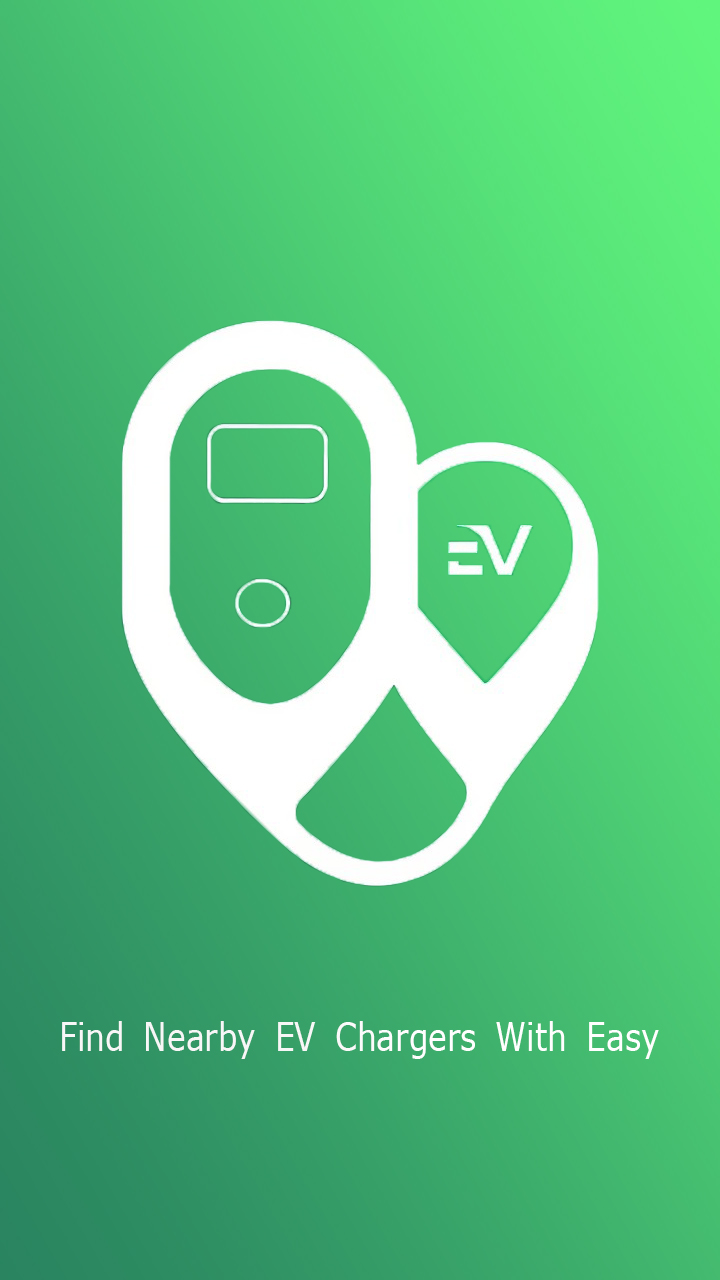
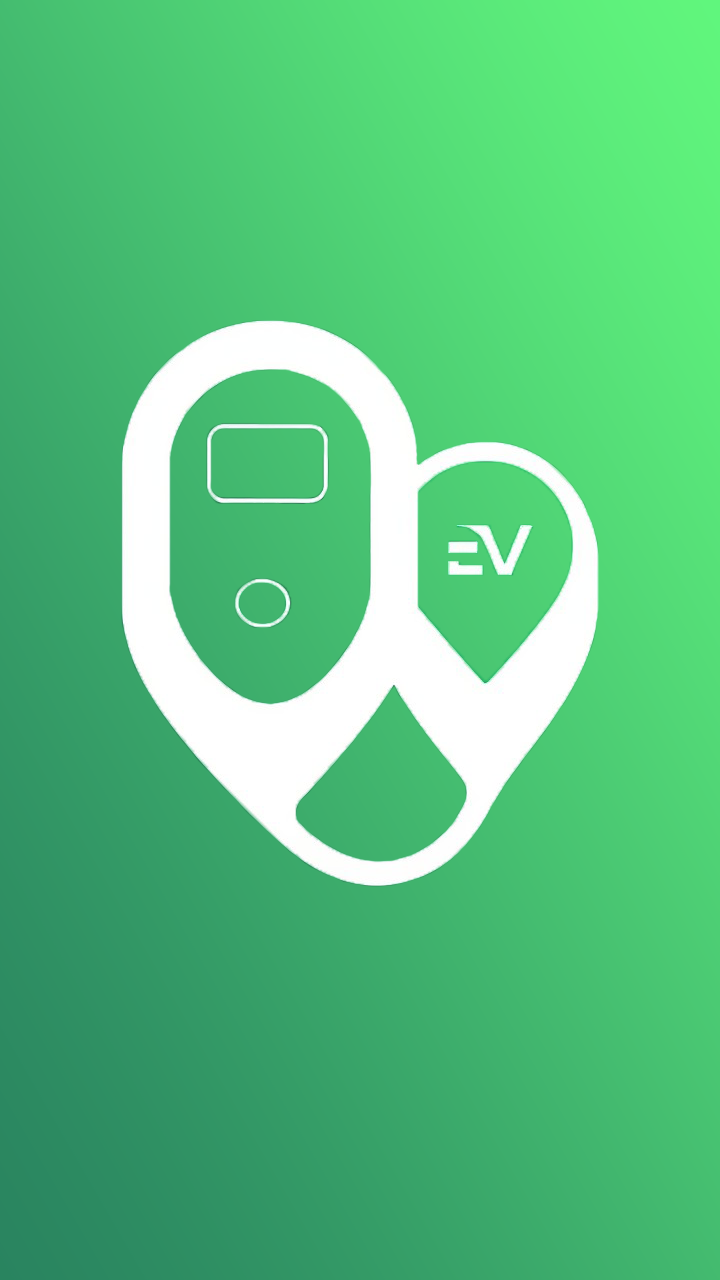
updated onboarding

diff --git a/lib/screens/onboarding_screen.dart b/lib/screens/onboarding_screen.dart
@@ -11,8 +11,8 @@ class _OnboardingScreenState extends State<OnboardingScreen> {
   int _currentPage = 0;
 
   void _nextPage() {
-    if (_currentPage < 2) {
-      // Adjusted for three pages
+    if (_currentPage < 1) {
+      // Adjusted for two pages
       _pageController.nextPage(
         duration: Duration(milliseconds: 300),
         curve: Curves.easeInOut,
@@ -47,9 +47,14 @@ class _OnboardingScreenState extends State<OnboardingScreen> {
               });
             },
             children: <Widget>[
-              _buildPage('assets/images/slide2.png'),
-              _buildPage('assets/images/slide3.png'),
-              _buildPage('assets/images/slide4.png'),
+              _buildPage(
+                'assets/images/slide3.png',
+                'Barrior based parking systems installed for further refined, best quality experience.',
+              ),
+              _buildPage(
+                'assets/images/slide4.png',
+                'Find nearby EV chargers with ease.',
+              ),
             ],
           ),
           Positioned(
@@ -90,7 +95,7 @@ class _OnboardingScreenState extends State<OnboardingScreen> {
                 padding: EdgeInsets.symmetric(horizontal: 20, vertical: 10),
               ),
               child: Text(
-                _currentPage == 2 ? 'Get Started' : 'Next',
+                _currentPage == 1 ? 'Get Started' : 'Next',
                 style: TextStyle(
                   fontWeight: FontWeight.bold,
                   fontSize: 18,
@@ -104,14 +109,32 @@ class _OnboardingScreenState extends State<OnboardingScreen> {
     );
   }
 
-  Widget _buildPage(String imagePath) {
-    return Center(
-      child: Image.asset(
-        imagePath,
-        fit: BoxFit.cover, // Ensures the image fits the display
-        width: double.infinity,
-        height: double.infinity,
-      ),
+  Widget _buildPage(String imagePath, String text) {
+    return Stack(
+      children: [
+        Center(
+          child: Image.asset(
+            imagePath,
+            fit: BoxFit.cover,
+            width: double.infinity,
+            height: double.infinity,
+          ),
+        ),
+        Positioned(
+          top: 40.0,
+          left: 20.0,
+          right: 20.0,
+          child: Text(
+            text,
+            style: TextStyle(
+              fontSize: 24,
+              color: Colors.white,
+              fontFamily: 'ModernFont', // Use a modern font
+            ),
+            textAlign: TextAlign.center,
+          ),
+        ),
+      ],
     );
   }
 }
